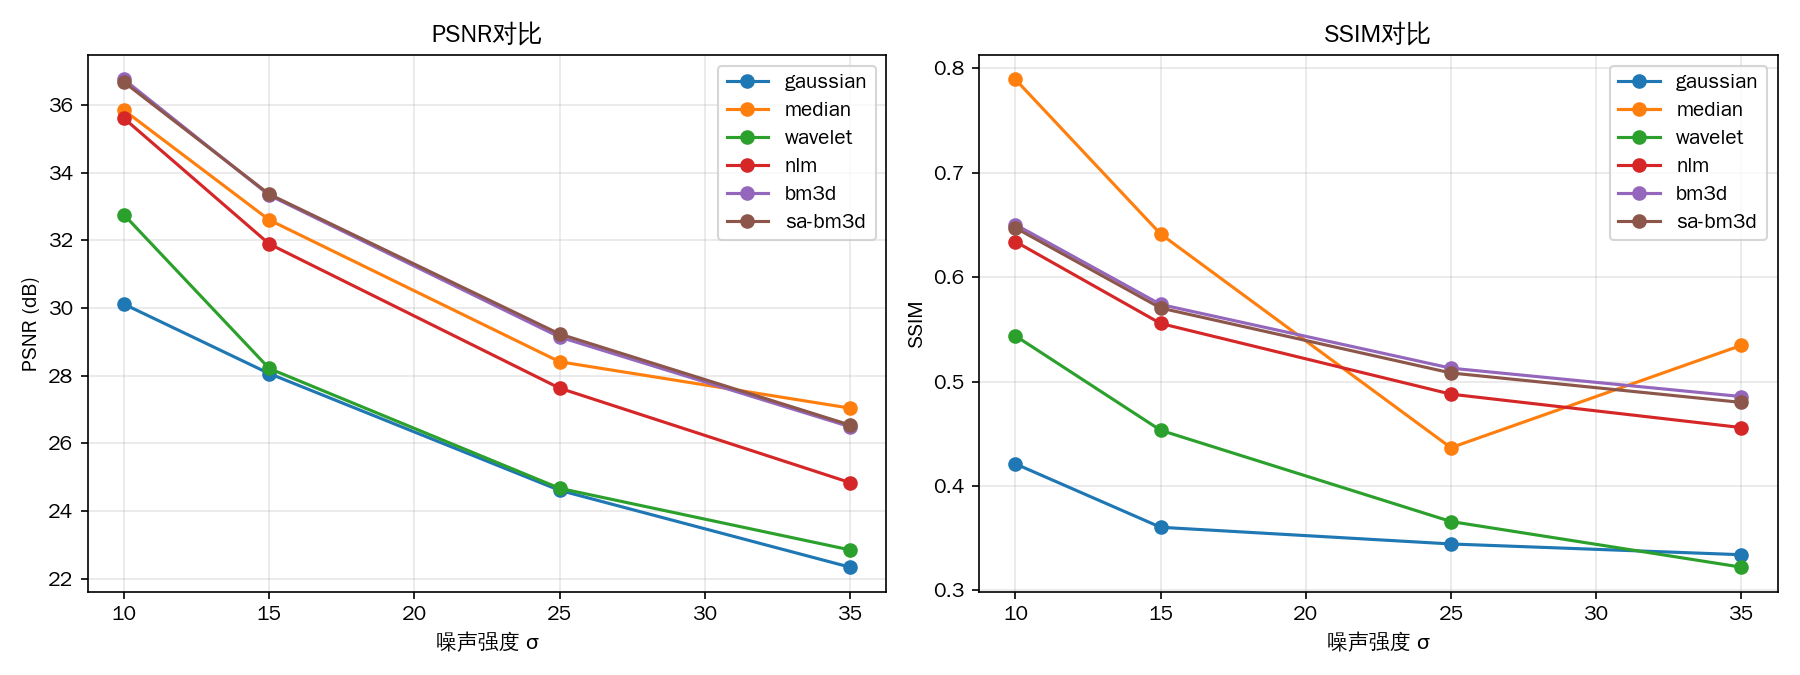
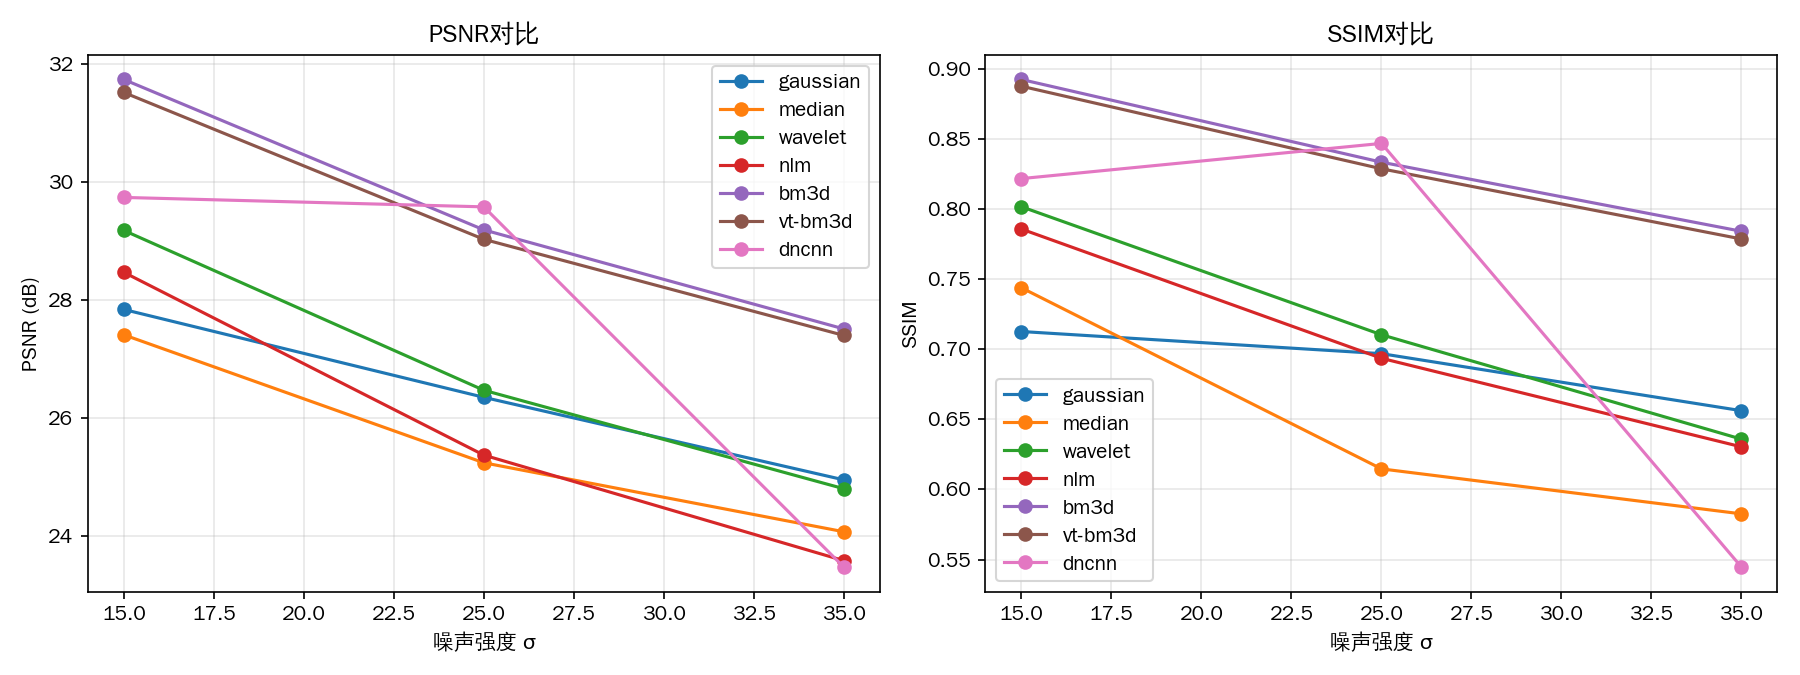
更新Set12+BSD300实验结果(7算法×σ=15/25/35)

diff --git a/experiments/results/benchmark.md b/experiments/results/benchmark.md
@@ -1,34 +1,30 @@
 # 去噪算法对比实验结果
 
-测试图像: Shepp-Logan CT体模 (256x256), 高斯噪声
+测试数据: Set12 + BSD300(test) 共20张灰度图, 高斯噪声, 指标为数据集平均值
 
-| σ | 方法 | PSNR(dB) | SSIM | RMSE | 耗时(s) |
-| --- | --- | --- | --- | --- | --- |
-| 10 | noisy | 29.71 | 0.3977 | 0.0327 | 0.0 |
-| 10 | gaussian | 30.11 | 0.4211 | 0.0312 | 0.0 |
-| 10 | median | 35.84 | 0.7893 | 0.0161 | 0.0 |
-| 10 | wavelet | 32.75 | 0.5437 | 0.0231 | 0.0 |
-| 10 | nlm | 35.6 | 0.634 | 0.0166 | 0.15 |
-| 10 | bm3d | 36.75 | 0.6503 | 0.0145 | 1.8 |
-| 10 | sa-bm3d | 36.67 | 0.6472 | 0.0147 | 3.55 |
-| 15 | noisy | 26.19 | 0.2755 | 0.049 | 0.0 |
-| 15 | gaussian | 28.06 | 0.3604 | 0.0395 | 0.0 |
-| 15 | median | 32.6 | 0.6413 | 0.0235 | 0.0 |
-| 15 | wavelet | 28.21 | 0.4533 | 0.0388 | 0.0 |
-| 15 | nlm | 31.89 | 0.5556 | 0.0254 | 0.16 |
-| 15 | bm3d | 33.33 | 0.5738 | 0.0215 | 1.78 |
-| 15 | sa-bm3d | 33.36 | 0.5704 | 0.0215 | 3.6 |
-| 25 | noisy | 21.85 | 0.1873 | 0.0808 | 0.0 |
-| 25 | gaussian | 24.61 | 0.3444 | 0.0588 | 0.0 |
-| 25 | median | 28.41 | 0.4366 | 0.038 | 0.0 |
-| 25 | wavelet | 24.67 | 0.3659 | 0.0584 | 0.0 |
-| 25 | nlm | 27.63 | 0.4879 | 0.0415 | 0.15 |
-| 25 | bm3d | 29.14 | 0.5128 | 0.0349 | 1.82 |
-| 25 | sa-bm3d | 29.23 | 0.5082 | 0.0346 | 3.67 |
-| 35 | noisy | 19.12 | 0.1542 | 0.1107 | 0.0 |
-| 35 | gaussian | 22.34 | 0.3341 | 0.0764 | 0.0 |
-| 35 | median | 27.04 | 0.5346 | 0.0444 | 0.0 |
-| 35 | wavelet | 22.85 | 0.3222 | 0.072 | 0.0 |
-| 35 | nlm | 24.84 | 0.4559 | 0.0573 | 0.15 |
-| 35 | bm3d | 26.49 | 0.4856 | 0.0474 | 1.82 |
-| 35 | sa-bm3d | 26.54 | 0.48 | 0.0471 | 3.62 |
+| σ | 方法 | PSNR(dB) | SSIM | 平均耗时(s) |
+| --- | --- | --- | --- | --- |
+| 15 | noisy | 24.75 | 0.5842 | 0.0 |
+| 15 | gaussian | 27.84 | 0.7127 | 0.0 |
+| 15 | median | 27.41 | 0.7439 | 0.0 |
+| 15 | wavelet | 29.18 | 0.8017 | 0.0 |
+| 15 | nlm | 28.47 | 0.7858 | 0.25 |
+| 15 | bm3d | 31.74 | 0.8925 | 2.92 |
+| 15 | vt-bm3d | 31.52 | 0.8877 | 6.22 |
+| 15 | dncnn | 29.74 | 0.8218 | 0.5 |
+| 25 | noisy | 20.41 | 0.4085 | 0.0 |
+| 25 | gaussian | 26.35 | 0.6969 | 0.0 |
+| 25 | median | 25.24 | 0.6147 | 0.0 |
+| 25 | wavelet | 26.47 | 0.7104 | 0.0 |
+| 25 | nlm | 25.37 | 0.6936 | 0.26 |
+| 25 | bm3d | 29.19 | 0.8335 | 2.93 |
+| 25 | vt-bm3d | 29.03 | 0.8288 | 5.81 |
+| 25 | dncnn | 29.58 | 0.8469 | 0.46 |
+| 35 | noisy | 17.64 | 0.3054 | 0.0 |
+| 35 | gaussian | 24.95 | 0.6562 | 0.0 |
+| 35 | median | 24.07 | 0.5826 | 0.0 |
+| 35 | wavelet | 24.8 | 0.6359 | 0.0 |
+| 35 | nlm | 23.58 | 0.6304 | 0.26 |
+| 35 | bm3d | 27.51 | 0.7842 | 2.95 |
+| 35 | vt-bm3d | 27.4 | 0.7787 | 5.89 |
+| 35 | dncnn | 23.47 | 0.5446 | 0.46 |
